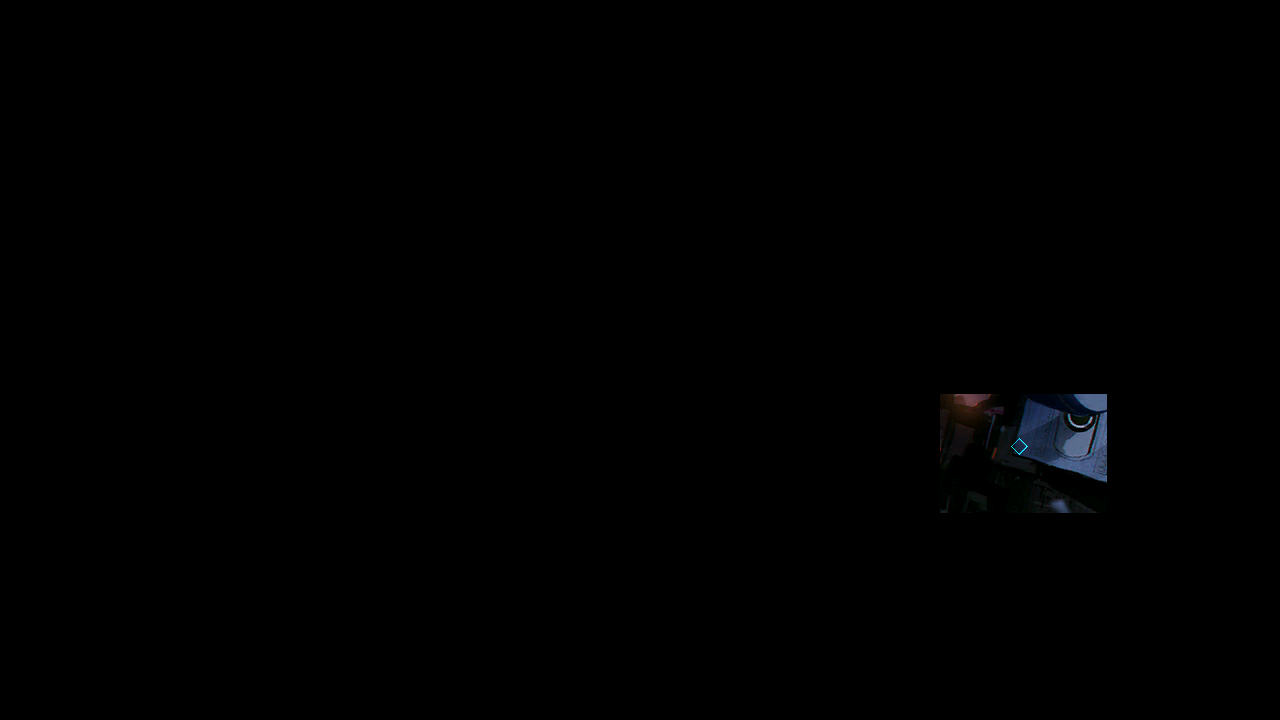
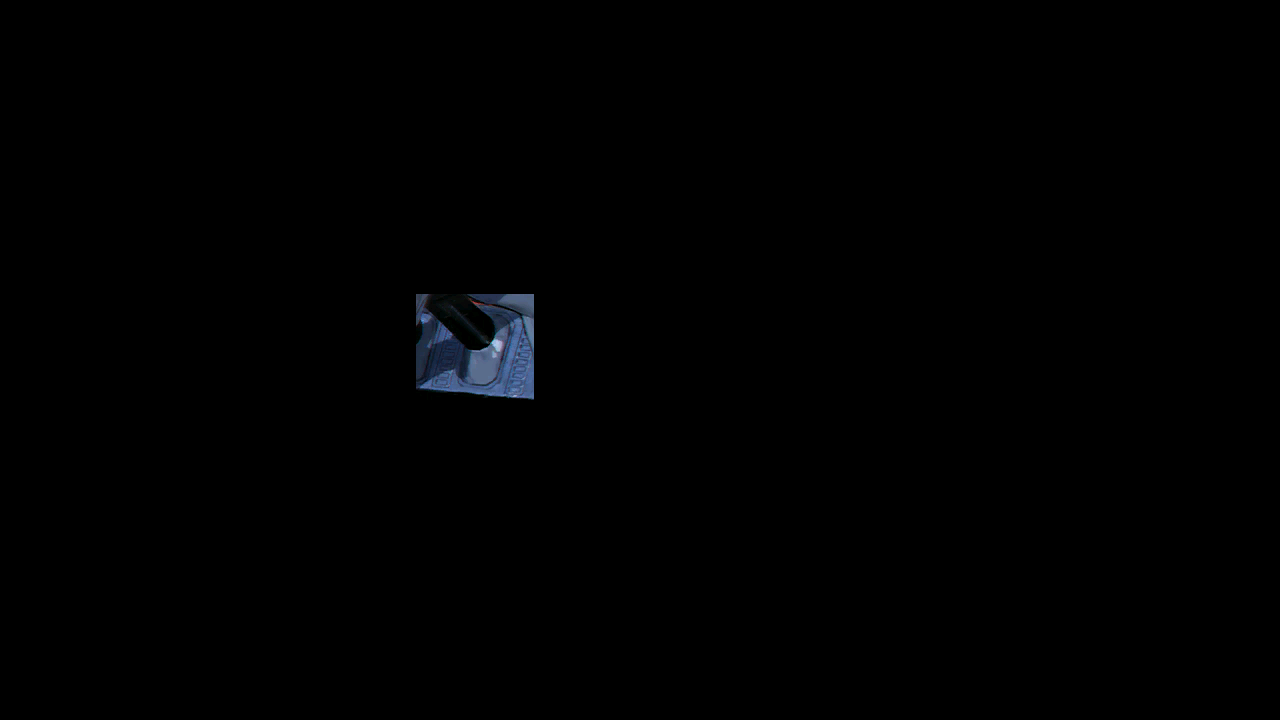
Add: 增加登录时更新和回归奖励的适配
- 更改了登录时的点击位置

Changed region(s): [[0.3125, 0.3972, 0.4375, 0.55], [0.7188, 0.55, 0.875, 0.7333]]

diff --git a/module/handler/assets.py b/module/handler/assets.py
@@ -22,7 +22,9 @@ IN_MAP = Button(area=(749, 654, 921, 707), color=(213, 124, 124), button=(749, 6
 IN_STAGE_BLUE = Button(area=(20, 641, 148, 702), color=(154, 177, 226), button=(20, 641, 148, 702), file='./assets/handler/IN_STAGE_BLUE.png')
 IN_STAGE_RED = Button(area=(22, 643, 150, 704), color=(229, 159, 159), button=(22, 643, 150, 704), file='./assets/handler/IN_STAGE_RED.png')
 LOGIN_ANNOUNCE = Button(area=(1160, 45, 1227, 90), color=(174, 61, 56), button=(1160, 45, 1227, 90), file='./assets/handler/LOGIN_ANNOUNCE.png')
-LOGIN_CHECK = Button(area=(77, 655, 154, 711), color=(33, 36, 33), button=(940, 394, 1107, 513), file='./assets/handler/LOGIN_CHECK.png')
+LOGIN_CHECK = Button(area=(77, 655, 154, 711), color=(33, 36, 33), button=(416, 294, 534, 400), file='./assets/handler/LOGIN_CHECK.png')
+LOGIN_GAME_UPDATE = Button(area=(700, 471, 873, 529), color=(238, 170, 78), button=(700, 471, 873, 529), file='./assets/handler/LOGIN_GAME_UPDATE.png')
+LOGIN_RETURN_SIGN = Button(area=(1, 7, 104, 47), color=(158, 214, 229), button=(1, 7, 104, 47), file='./assets/handler/LOGIN_RETURN_SIGN.png')
 MAP_AIR_RAID = Button(area=(350, 447, 1280, 472), color=(154, 43, 46), button=(350, 447, 1280, 472), file='./assets/handler/MAP_AIR_RAID.png')
 MAP_AMBUSH = Button(area=(261, 433, 1280, 449), color=(161, 41, 43), button=(261, 433, 1280, 449), file='./assets/handler/MAP_AMBUSH.png')
 MAP_AMBUSH_EVADE = Button(area=(325, 393, 1280, 395), color=(255, 255, 255), button=(979, 444, 1152, 502), file='./assets/handler/MAP_AMBUSH_EVADE.png')

diff --git a/module/handler/login.py b/module/handler/login.py
@@ -1,7 +1,7 @@
 from module.combat.combat import Combat
 from module.logger import logger
 from module.base.timer import Timer
-from module.handler.assets import LOGIN_CHECK, LOGIN_ANNOUNCE
+from module.handler.assets import *
 from module.ui.ui import MAIN_CHECK, EVENT_LIST_CHECK, BACK_ARROW
 
 
@@ -21,6 +21,10 @@ class LoginHandler(Combat):
                 continue
             if self.appear(EVENT_LIST_CHECK, offset=(30, 30), interval=1):
                 self.device.click(BACK_ARROW)
+                continue
+            if self.appear_then_click(LOGIN_GAME_UPDATE, offset=(30, 30), interval=1):
+                continue
+            if self.appear_then_click(LOGIN_RETURN_SIGN, offset=(30, 30), interval=1):
                 continue
 
             if self.info_bar_count() and self.appear_then_click(LOGIN_CHECK, interval=0.5):

diff --git a/module/device/screenshot.py b/module/device/screenshot.py
@@ -62,7 +62,8 @@ class Screenshot(Connection):
             self.image = self._screenshot_uiautomator2()
 
         self.image.load()
-        logger.screenshot_deque.append(self.image)
+        if self.config.ENABLE_ERROR_LOG_AND_SCREENSHOT_SAVE:
+            logger.screenshot_deque.append(self.image)
         return self.image
 
     def save_screenshot(self, genre='items'):
